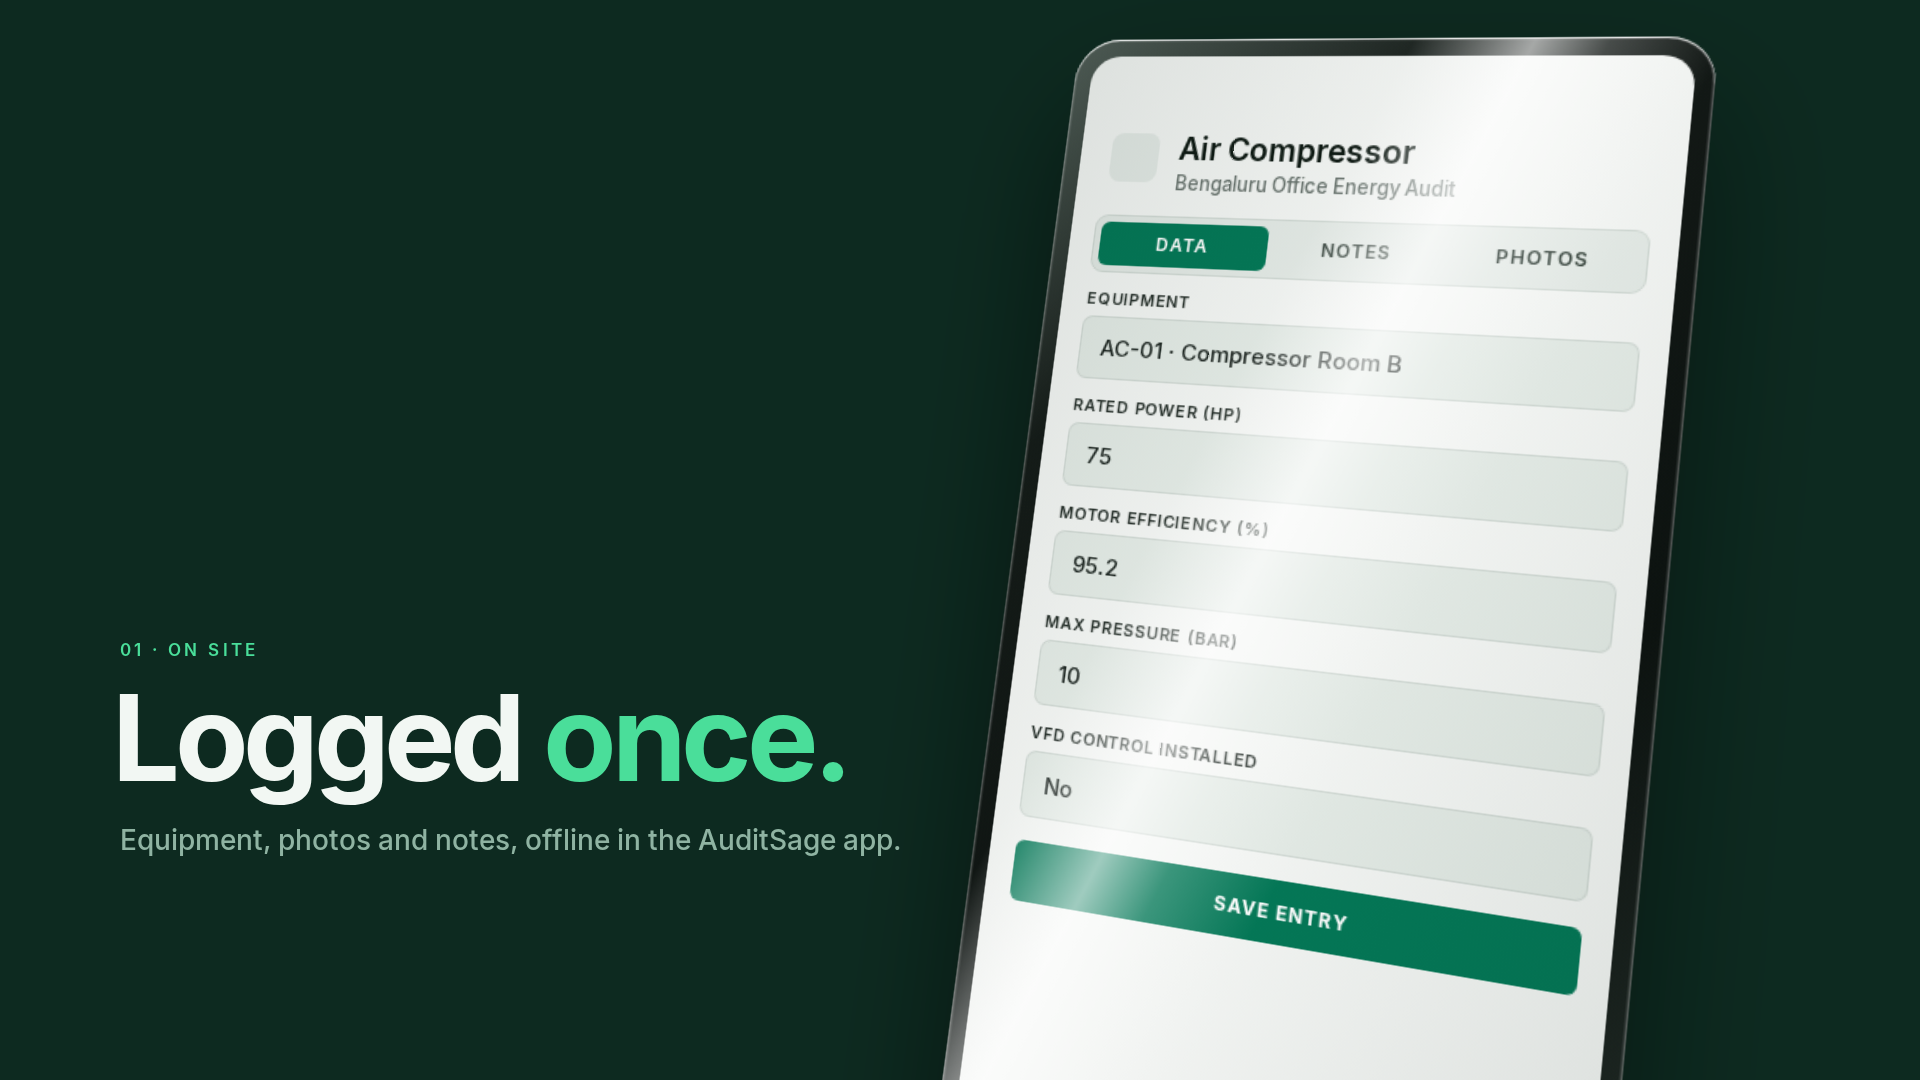
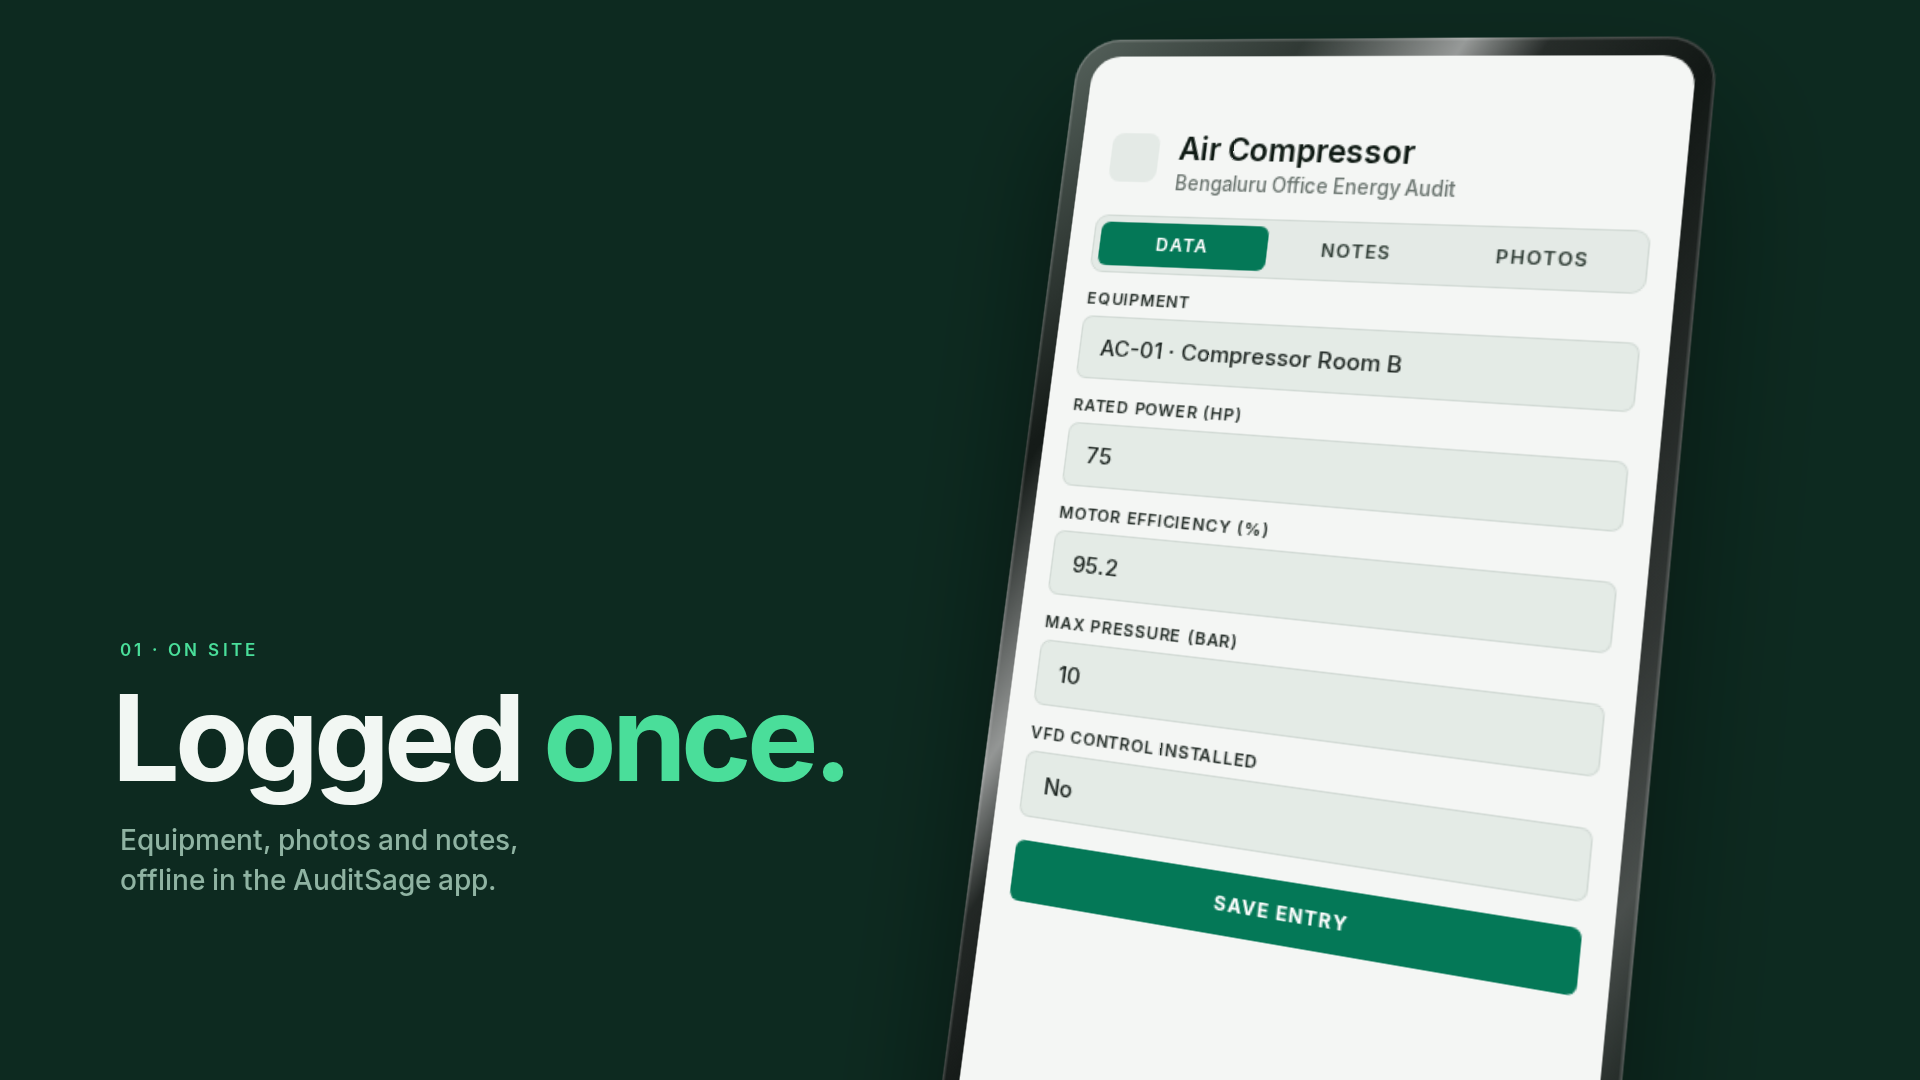
AuditSage storyboard v3: full board in the UI-led Forest layout, shine on bezels only
Claude-Session: https://claude.ai/code/session_01N6SAp883XGMwBKYGBCyKw5

diff --git a/auditsage/docs/storyboard/v3.html b/auditsage/docs/storyboard/v3.html
@@ -101,11 +101,13 @@ html,body { margin:0; }
 .phone { border-radius:30px !important; } .phone .scr { border-radius:20px !important; }
 .tile { border-radius:10px !important; }
 .win { border-radius:6px; }
-/* Shine: the glass is toned very slightly so a bright diagonal band reads on white UI, and the top
-   edge is lit. In the film the band sweeps across on the beat. */
-.phone::after, .win::after, .tile::after { content:''; position:absolute; inset:0; border-radius:inherit; pointer-events:none;
-  background:linear-gradient(112deg, rgba(8,30,20,.10) 0%, rgba(8,30,20,.03) 30%, rgba(255,255,255,.62) 40%, rgba(255,255,255,.22) 46%, rgba(8,30,20,.02) 55%, rgba(8,30,20,.12) 100%);
-  box-shadow:inset 0 1px 0 rgba(255,255,255,.8), inset 0 0 0 1px rgba(255,255,255,.12); }
+/* Shine lives on the hardware only: the phone bezel and the window frame, never on the screen. */
+.phone { padding:0; }
+.phone::before { content:''; position:absolute; inset:0; border-radius:inherit; pointer-events:none;
+  background:linear-gradient(118deg, rgba(255,255,255,0) 18%, rgba(255,255,255,.55) 30%, rgba(255,255,255,.08) 36%, rgba(255,255,255,0) 48%, rgba(255,255,255,.22) 78%, rgba(255,255,255,0) 86%); }
+.phone .scr { z-index:1; }
+.win { box-shadow:0 30px 80px rgba(0,0,0,.4), 0 0 0 1px rgba(255,255,255,.5), 0 0 0 7px #1A2622, 0 0 0 8px rgba(255,255,255,.25) !important; }
+.win .tb { background:linear-gradient(180deg,#FFFFFF,#F1F4F2); }
 .phone { background:linear-gradient(135deg,#55615B 0%,#151B18 22%,#0D1210 60%,#2C3631 100%) !important; box-shadow:0 40px 90px rgba(0,0,0,.45), inset 0 0 0 1.5px rgba(255,255,255,.18) !important; }
 </style></head><body><svg width="0" height="0" style="position:absolute"><defs><g id="ctl" fill="none" stroke="#6B7570" stroke-width="1.3"><path d="M2 6h10"/><rect x="42.5" y=".5" width="11" height="11"/><path d="M84 .5l11 11M95 .5l-11 11"/></g>
 <g id="cur"><path d="M4 2l15 11-7 1 4 8-3 1-4-8-5 5z" fill="#fff" stroke="#000" stroke-width="1.2" stroke-linejoin="round"/></g></defs></svg><template id="t-phone-data"><div class="phone"><div class="scr">
@@ -144,6 +146,25 @@ html,body { margin:0; }
     <p class="hl">AC-01 (Atlas Copco GA55, 55 kW) in Compressor Room B runs loaded at part demand. Fitting a VFD and replacing the worn discharge-line insulation saves an estimated 41,600 kWh and $4,820 a year, for an $8,600 investment: a simple payback of 1.8 years.</p>
     <p>Savings were calculated from the logged operating profile and nameplate data, following ASHRAE Level 2 methods.</p>
   </div></div></div></template>
+<template id="t-bills"><div class="win" style="width:1120px;height:640px"><div class="tb"><span>Utility Bills&nbsp;&nbsp;·&nbsp;&nbsp;Electricity bill extraction</span><svg width="96" height="12"><use href="#ctl"/></svg></div><div class="wbody">
+  <div class="an-head"><div><h4>Extracted Data Details</h4><small>MAL OCTOBER 2023.PDF · AI-EXTRACTED</small></div><div><span class="pill s">EXTRACTED</span>&nbsp;&nbsp;<span class="pill g">Save</span></div></div>
+  <div style="position:absolute;left:20px;top:84px;width:330px;bottom:20px;border-radius:8px;box-shadow:0 0 0 1px #E3E8E5;padding:14px;box-sizing:border-box;font:500 13px Inter;color:#4C5651">
+    <div style="font:600 11px Inter;letter-spacing:.1em;color:#8A948F;margin-bottom:10px">UTILITY BILLS</div>
+    <div style="display:flex;justify-content:space-between;padding:10px 8px;border-radius:6px;background:#E6F4EE;color:#0F1A14;font-weight:600">MAL October 2023.pdf<span class="pill s" style="padding:3px 7px">✓</span></div>
+    <div style="display:flex;justify-content:space-between;padding:10px 8px">MAL September 2023.pdf<span class="pill s" style="padding:3px 7px">✓</span></div>
+    <div style="display:flex;justify-content:space-between;padding:10px 8px">MCPL August 2023.pdf<span class="pill s" style="padding:3px 7px">✓</span></div>
+    <div style="display:flex;justify-content:space-between;padding:10px 8px">MCPL April 2023.pdf<span style="color:#7C3AED;font-weight:600">Extracting…</span></div>
+  </div>
+  <div class="fields" style="position:absolute;left:370px;right:20px;top:84px;width:auto;border-radius:8px;box-shadow:0 0 0 1px #E3E8E5;overflow:hidden">
+    <div class="r" style="background:#F6F8F7;font-weight:600;color:#6B7570;font-size:12px;letter-spacing:.06em"><span>FIELD</span><span>VALUE</span></div>
+    <div class="r"><span>Consumer</span><b>Bengaluru Office · HT</b></div>
+    <div class="r"><span>Bill month</span><b>October 2023</b></div>
+    <div class="r hi"><span>Units used</span><b>618,470 kWh</b></div>
+    <div class="r"><span>Contract demand</span><b>1,000 kW</b></div>
+    <div class="r"><span>Tariff</span><b>HT-3.4 · 33 kV</b></div>
+    <div class="r"><span>Bill total</span><b>₹46,74,196</b></div>
+    <div class="r"><span>Due date</span><b>21-11-2023</b></div>
+  </div></div></div></template>
 <!-- 1 · Bento opener: the whole product at a glance, real UI only -->
 <div class="frame" id="f1">
   <div class="tile" style="left:60px;top:60px;width:470px;height:960px;background:#F4F6F4"><div data-t="t-phone-data" style="position:absolute;left:25px;top:40px;transform:scale(1.0);transform-origin:0 0"></div></div>
@@ -165,16 +186,55 @@ html,body { margin:0; }
   <div class="persp"><div data-t="t-phone-data" style="position:absolute;left:1080px;top:40px;transform:rotateY(-24deg) rotateX(10deg) rotateZ(4deg) scale(1.45);transform-origin:50% 30%"></div></div>
   <div class="abs kick" style="left:120px;top:640px">01 · On site</div>
   <div class="abs big" style="left:112px;top:676px">Logged <i>once.</i></div>
-  <div class="abs" style="left:120px;top:820px;font:500 28px/40px Inter;color:#8FB3A2">Equipment, photos and notes, offline in the AuditSage app.</div>
+  <div class="abs" style="left:120px;top:820px;font:500 28px/40px Inter;color:#8FB3A2">Equipment, photos and notes,<br>offline in the AuditSage app.</div>
 </div>
 
-<!-- 3 · Macro: the analysis, the camera low across the ECM table -->
-<div class="frame" id="f3">
+<!-- 4 · Macro: the analysis, the camera low across the ECM table -->
+<div class="frame" id="f4">
   <div class="persp"><div data-t="t-analysis" style="position:absolute;left:420px;top:330px;transform:rotateX(28deg) rotateZ(-6deg) scale(1.4);transform-origin:50% 40%"></div></div>
   <div class="abs" style="left:0;right:0;top:0;height:470px;background:linear-gradient(var(--bg) 70%, transparent)"></div>
   <div class="abs kick" style="left:120px;top:110px">03 · AI analysis</div>
   <div class="abs big" style="left:112px;top:146px">$4,820 <i>a year.</i></div>
   <div class="abs" style="left:120px;top:290px;font:500 28px/40px Inter;color:#8FB3A2">From one compressor. Ranked, costed and ready to approve.</div>
+</div>
+
+<!-- 3 · Macro: bills, read by AI -->
+<div class="frame" id="f3">
+  <div class="persp"><div data-t="t-bills" style="position:absolute;left:760px;top:220px;transform:rotateY(-16deg) rotateX(5deg) scale(1.0);transform-origin:0% 50%"></div></div>
+  <div class="abs kick" style="left:120px;top:640px">02 · Utility bills</div>
+  <div class="abs big" style="left:112px;top:676px">Bills, <i>read.</i></div>
+  <div class="abs" style="left:120px;top:820px;font:500 28px/40px Inter;color:#8FB3A2">Every field pulled from the PDF<br>by AI, ready to review.</div>
+</div>
+
+<!-- 5 · The report: the paragraph about AC-01, Generate Word -->
+<div class="frame" id="f5">
+  <div class="persp"><div data-t="t-report" style="position:absolute;left:780px;top:170px;transform:rotateY(-14deg) rotateX(4deg) scale(.98);transform-origin:0% 50%"></div></div>
+  <svg class="cursor" style="left:1650px;top:252px;z-index:5" viewBox="0 0 24 24"><use href="#cur"/></svg>
+  <div class="toast" style="left:1440px;top:100px;z-index:5">✓&nbsp;&nbsp;Word document downloaded</div>
+  <div class="abs kick" style="left:120px;top:640px">04 · Report</div>
+  <div class="abs big" style="left:112px;top:676px">Written <i>in.</i></div>
+  <div class="abs" style="left:120px;top:820px;font:500 28px/40px Inter;color:#8FB3A2">The ASHRAE Level 2 report, drafted.<br>Edit, then export to Word.</div>
+</div>
+
+<!-- 6 · Pull back to the bento: the audit total -->
+<div class="frame" id="f6">
+  <div class="tile" style="left:60px;top:60px;width:470px;height:960px;background:#F4F6F4;opacity:.9"><div data-t="t-phone-data" style="position:absolute;left:25px;top:40px"></div></div>
+  <div class="tile" style="left:550px;top:60px;width:1310px;height:470px;background:#0F3B2C;box-shadow:none">
+    <div style="position:absolute;left:48px;top:48px" class="kick">Bengaluru Office · one audit · 15 ECMs</div>
+    <div style="position:absolute;left:44px;top:110px;font:700 190px/200px Inter;letter-spacing:-.05em;color:#4ADE9A">$28,363</div>
+    <div style="position:absolute;left:52px;top:320px;font:600 48px Inter;letter-spacing:-.02em;color:#F2F7F3">a year in savings. 171,889 kWh.</div>
+  </div>
+  <div class="tile" style="left:550px;top:550px;width:640px;height:470px"><div data-t="t-analysis" style="position:absolute;left:-200px;top:-110px;transform:scale(.95);transform-origin:0 0"></div></div>
+  <div class="tile" style="left:1210px;top:550px;width:650px;height:470px"><div data-t="t-report" style="position:absolute;left:-230px;top:-40px;transform:scale(.9);transform-origin:0 0"></div></div>
+</div>
+
+<!-- 7 · Lockup -->
+<div class="frame" id="f7">
+  <img class="abs" src="../../product/logo.png" style="left:590px;top:390px;width:160px;padding:14px;border-radius:22px;background:#F2F7F3">
+  <div class="abs" style="left:800px;top:380px;width:6px;height:180px;border-radius:3px;background:#4ADE9A;transform:rotate(14deg)"></div>
+  <div class="abs" style="left:840px;top:392px;font:700 140px/160px Inter;letter-spacing:-.045em;color:#F2F7F3">AuditSage</div>
+  <div class="abs" style="left:0;width:1920px;top:620px;text-align:center;font:600 46px/60px Inter;letter-spacing:-.015em;color:#F2F7F3">Site visit to <span style="color:#4ADE9A">final report.</span></div>
+  <div class="abs" style="left:0;width:1920px;top:706px;text-align:center"><span style="display:inline-block;font:500 15px/34px Inter;letter-spacing:.12em;text-transform:uppercase;color:#8FB3A2;padding:0 18px;border-radius:17px;box-shadow:inset 0 0 0 1px #1F4535">by GreenSage AI</span></div>
 </div>
 <script>
 for (const host of document.querySelectorAll('[data-t]')) host.appendChild(document.getElementById(host.dataset.t).content.cloneNode(true));

diff --git a/auditsage/docs/shotlist.md b/auditsage/docs/shotlist.md
@@ -1,40 +1,26 @@
-# AuditSage launch film v2: follow one compressor (storyboard, for approval)
+# AuditSage launch film v3 (storyboard, for approval)
 
-15 s, 16:9, 1920×1080, 60 fps, 128 BPM, 8 bars (32 beats, 0.469 s each).
+15 s, 16:9, 1920×1080, 60 fps, 128 BPM, 8 bars (32 beats, 0.469 s each). Board: `docs/storyboard/board-v3.png`
+(source `docs/storyboard/v3.html?f=1..7`).
 
-**Idea:** follow one real-world thing through the whole product. Air compressor **AC-01** in
-Compressor Room B goes from a nameplate on site to a paragraph in the ASHRAE report, joined by one
-green line, and the film ends on what the whole audit found. Specific to energy audits; nothing a
-generic SaaS film could say.
+**Look (Forest):** stage `#0D2A20`, type `#F2F7F3`, muted `#8FB3A2`, one accent mint `#4ADE9A`. The product's
+own UI keeps its own colours (white, `#047857`). Inter Bold statements, Inter Medium copy.
+**Layout:** UI-led. A bento opener shows the whole product; then each step is the product UI full-frame,
+big and in perspective, with one large statement over the empty side. No illustrative images: only
+AuditSage screens (rebuilt faithfully from the gs-doc screenshots).
+**Mockups:** tight corners (phone screen 20 px, windows 6 px, tiles 10 px). Shine on the hardware only:
+the phone bezel catches a diagonal highlight and window frames have a lit dark edge; screens stay clean.
+In the film the bezel highlight sweeps on the beat as each device lands.
+**One consistent audit on every screen:** Bengaluru Office Energy Audit · AC-01 (Compressor Room B, 75 HP,
+95.2%, no VFD) · bill: October 2023, 618,470 kWh, 1,000 kW, HT-3.4 · ECM 3: VFD on AC-01, $4,820/yr,
+$8,600, 1.8 yr · audit total: 15 ECMs, 171,889 kWh, $28,363/yr, 112 t CO₂.
 
-**Screens** are rebuilt in HTML to match the real AuditSage / GreenSage UI (layouts, type, colours
-and components taken from the gs-doc screenshots), so every screen shows **one consistent audit**:
-
-| Thing | Value used on every screen |
-|---|---|
-| Audit | Bengaluru Office Energy Audit · ASHRAE Level 2 |
-| Equipment | AC-01 · Compressor Room B · Atlas Copco GA55 · 55 kW / 75 HP · 10 bar · 95.2% motor efficiency · no VFD |
-| Observation | Runs loaded at part demand; discharge line insulation worn (GPS-stamped photo) |
-| Recommendation | Fit a VFD to AC-01 and replace the discharge line insulation |
-| ECM 3 | VFD retrofit, AC-01 · 41,600 kWh/yr · $4,820/yr · $8,600 · 1.8 yr payback |
-| Audit total | 15 ECMs · 171,889 kWh · $28,363 a year · 112 t CO₂ |
-
-**Look:** a light engineering board (`#E9EDE9` with a fine dot grid), product green `#047857` as the one
-accent and the thread, Inter Bold / Inter Medium, white flat windows (title left, line controls right,
-6 px corners, 16 px padding). One continuous camera travels along the line; nothing cuts.
-
-| # | Beats | Time | On screen | Motion | Sound |
+| # | Beats | Time | Shot | Motion | Sound |
 |---|---|---|---|---|---|
-| 1 | 0–5 | 0.0–2.3 | **Nameplate, read by AI.** Close on AC-01's plate. Green dots land on asset tag, rated power, max pressure; lines pull out tags "AC-01 · Atlas Copco GA55", "55 kW · 75 HP", "10 bar · max pressure". | Already drifting on frame 0; one tag per beat (1, 2, 3). | Hit 0, tick per tag |
-| 2 | 5–9 | 2.3–4.2 | **Captured once.** Camera pulls right along the line; the plate shrinks, the AuditSage phone arrives with those values in its Data tab. "On site · Compressor Room B". | Values fly from tags into fields on the 16th grid. | Whoosh 5, ticks |
-| 3 | 9–13 | 4.2–6.1 | **Photo, note, recommendation.** Photos tab (GPS overlay on AC-01), then Notes (observation + recommendation). | Screens slide in step; line runs off right. Sync badge clears on 12.5. | Ticks, click 12.5 |
-| 4 | 13–19 | 6.1–8.9 | **AC-01 → ECM 3.** The line enters the ASHRAE Analysis window; the ECM 3 row highlights, its bar rises in the chart; "$4,820 a year · 1.8 yr payback". Cursor clicks Approve Analysis on 18. | Boom 13 as the window lands; row highlight on 14; bar on 15. | Boom 13, click 18 |
-| 5 | 19–24 | 8.9–11.3 | **Written into the report.** Report editor, 4.1 ECM Details, the AC-01 paragraph highlighted. Cursor clicks Generate Word on 22.5; "Word document downloaded". | Window morphs from analysis to editor; paragraph highlight sweeps. | Click 22.5 |
-| 6 | 24–28 | 11.3–13.1 | **Pull back: $28,363 a year.** Everything shrinks onto one line (plate → phone → notes → analysis → report) and the audit total counts up above it. "Bengaluru Office · one audit · 15 ECMs". | Camera pull-back; number counts up on heavy. | Riser into 28 |
-| 7 | 28–32 | 13.1–15.0 | **Lockup.** The line pulls into the GreenSage mark; **AuditSage**; "Site visit to final report."; pill "by GreenSage AI". Holds. | Mark opens, wordmark slides, tagline rolls. | Crash 28, fade |
-
-## Open questions (default in brackets)
-1. The numbers are a plausible demo audit, consistent across screens. Use real figures from a real
-   audit instead? [demo numbers, consistent]
-2. Tagline [Site visit to final report.]
-3. Lockup [AuditSage, "by GreenSage AI"]
+| 1 | 0–5.3 | 0.0–2.5 | **Bento.** Five tiles: app data entry, "Site visit to final report." tile with the mark, extracted bill, ASHRAE analysis, report paragraph. | Tiles snap in one per beat (already moving on frame 0); camera dives into the phone tile on 5. | Hit 0, tick per tile |
+| 2 | 5.3–10.7 | 2.5–5.0 | **Logged once.** The app full-frame in perspective; values fill field by field. "Equipment, photos and notes, offline in the AuditSage app." | Phone glides in with a bezel glint; fields fill on the 16th grid; statement rolls up. | Whoosh, ticks |
+| 3 | 10.7–16 | 5.0–7.5 | **Bills, read.** Extracted Data Details: the bill list ticks to ✓, fields appear row by row, Units used highlights. | Window swings in from the right; rows reveal; highlight sweeps. | Ticks, riser into 16 |
+| 4 | 16–22.4 | 7.5–10.5 | **$4,820 a year.** ASHRAE analysis seen low and close; the ECM 3 row (VFD retrofit, AC-01) lights, its bar rises; the number counts up. Cursor clicks Approve Analysis on 22. | Boom on 16; camera dolly along the table. | Boom 16, click 22 |
+| 5 | 22.4–26.7 | 10.5–12.5 | **Written in.** Report editor, 4.1 ECM Details with the AC-01 paragraph highlighted; cursor clicks Generate Word, "Word document downloaded". | Window morphs from the analysis; click on 25. | Click 25 |
+| 6 | 26.7–29 | 12.5–13.6 | **Pull back: $28,363 a year.** Back out to the bento; the big tile now carries the audit total. | Camera pull-back; number counts up. | Riser |
+| 7 | 29–32 | 13.6–15.0 | **Lockup.** Mark, slash, AuditSage; "Site visit to final report."; "by GreenSage AI". Holds. | Mark opens from the bento tile; wordmark slides; tagline rolls. | Crash 29, fade |
